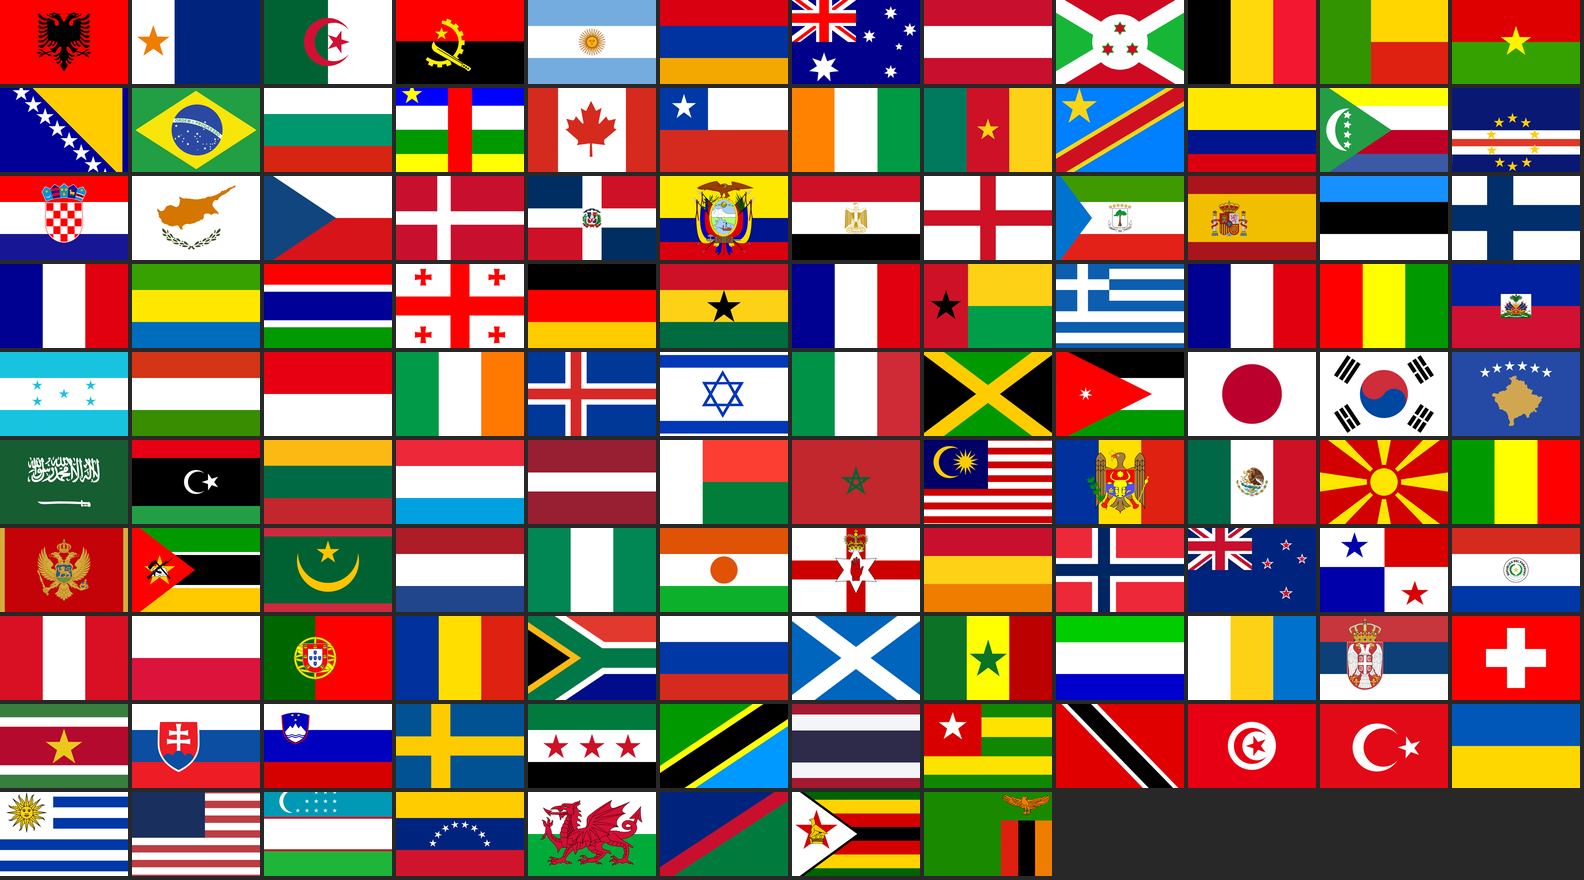
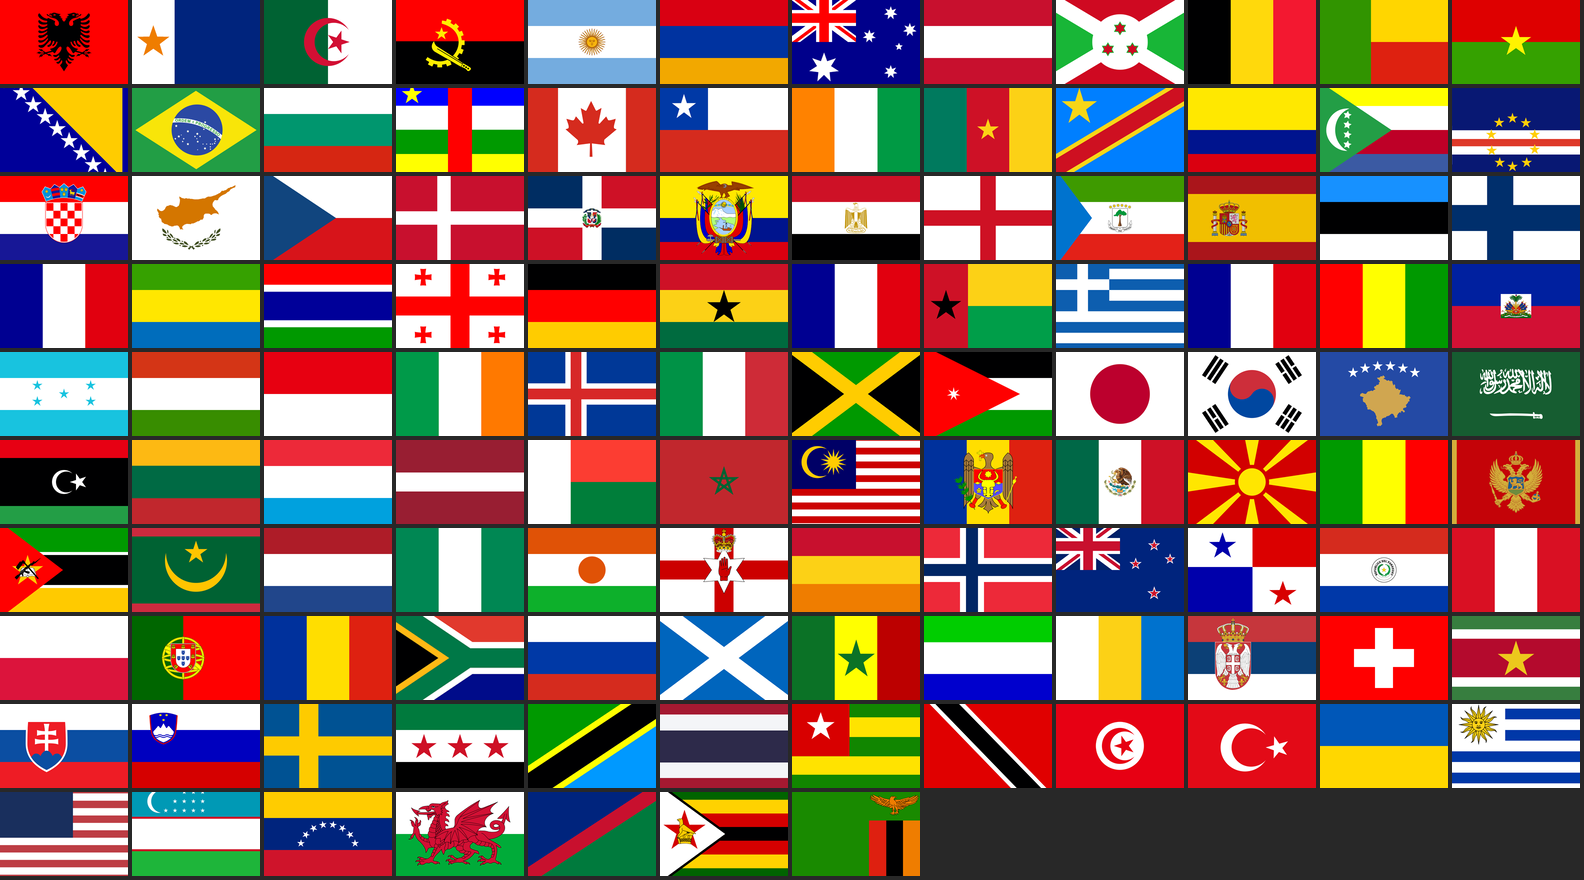
King Football: remove Israel and its players from the game data (owner request)
- countries.json entry, flag files, flag mapping and country translation removed
- the 4 Israeli players of the real pack removed (Villarreal, Levante, Hamburger SV, Lecce)
- importer excludes the nationality so a rebuild reproduces the pack
- counts in tests and docs: 115 countries, 8,009 players (2,863 real)

Claude-Session: https://claude.ai/code/session_01J2WiCJT12GhvJq6oHXpJYE

diff --git a/Foßball godot/king-f-oß-ball/tools/import_real/build_pack.py b/Foßball godot/king-f-oß-ball/tools/import_real/build_pack.py
@@ -269,6 +269,11 @@ def assign_numbers(players):
         p["shirt_number"] = n
 
 
+# Nationalities left out of the game at the owner's request (2026-11-15). Applied after the squad is chosen,
+# so a rebuild reproduces the shipped pack (those squads have 29 players).
+EXCLUDED_NATIONALITIES = {"Israel"}
+
+
 def real_squad(club_rows, league_rank, lo, hi, team_id):
     """Real players of one club. `league_rank` maps player_id -> value percentile (0..1)."""
     rows = sorted(club_rows, key=lambda r: (-int(r["market_value_in_eur"] or 0), r["player_id"]))
@@ -279,6 +284,7 @@ def real_squad(club_rows, league_rank, lo, hi, team_id):
             break
         if g not in keep:
             keep[-1] = g
+    keep = [r for r in keep if r["country_of_citizenship"] not in EXCLUDED_NATIONALITIES]
     out = []
     for r in keep:
         rng = seeded("tm", r["player_id"])

diff --git a/Foßball godot/king-f-oß-ball/docs/DATA_SOURCE_AND_LICENSES.md b/Foßball godot/king-f-oß-ball/docs/DATA_SOURCE_AND_LICENSES.md
@@ -4,12 +4,12 @@
 |---|---|---|---|
 | Leagues, divisions, clubs (names, structure) of England, Spain, Germany, Italy, France, season 2025-26 | openfootball (github.com/openfootball) | CC0 1.0 (public domain) | real |
 | City and founding year of the real clubs (only where the source states them: 186 cities, 80 years) | openfootball/clubs (github.com/openfootball/clubs, `europe/*/*.clubs.txt`) | public domain (stated in the repository README) | real |
-| First-tier squads (names, positions, ages, nationality, market value) | transfermarkt-datasets (github.com/dcaribou/transfermarkt-datasets), snapshot 2026-07-06; data originates from Transfermarkt | published by its author; **development / personal use, legal review needed before any public or commercial release** | real (2,867 players, ids `tm_*`) |
+| First-tier squads (names, positions, ages, nationality, market value) | transfermarkt-datasets (github.com/dcaribou/transfermarkt-datasets), snapshot 2026-07-06; data originates from Transfermarkt | published by its author; **development / personal use, legal review needed before any public or commercial release** | real (2,863 players, ids `tm_*`) |
 | Second-tier players | generated in-game | fictional names | generated (ids `gen_*`) |
 | Player ratings | estimated from market value, age and league strength | **estimates, not official ratings** | derived |
 | Club colours, 3-letter codes | general knowledge (`tools/import_real/club_meta.json`) | no artwork | real, approximate |
 | Countries (`data/countries.json`) | project data | project-owned | real names + 4 fictional regions |
-| **National flags, real countries** (`assets/flags/<id>.png` 128x84, `<id>_64.png` 64x42; 112 countries) | **flag-icons 7.6.0** by Panayiotis Lipiridis (github.com/lipis/flag-icons, npm `flag-icons`), 4x3 SVGs rasterised with Godot and cropped to 3:2 by `tools/build_flags.tscn`; mapping in `tools/flags/flag_map.json` | **MIT** — licence text shipped as `assets/flags/LICENSE-flag-icons.txt` | real (national flags are not subject to copyright in most countries; the SVG drawings are MIT) |
+| **National flags, real countries** (`assets/flags/<id>.png` 128x84, `<id>_64.png` 64x42; 111 countries) | **flag-icons 7.6.0** by Panayiotis Lipiridis (github.com/lipis/flag-icons, npm `flag-icons`), 4x3 SVGs rasterised with Godot and cropped to 3:2 by `tools/build_flags.tscn`; mapping in `tools/flags/flag_map.json` | **MIT** — licence text shipped as `assets/flags/LICENSE-flag-icons.txt` | real (national flags are not subject to copyright in most countries; the SVG drawings are MIT) |
 | National flags, fictional countries (Aldoria, Norvland, Solmara, Zamoria) | generated by `FlagGenerator` (`scripts/systems/flags/flag_generator.gd`), deterministic from the country id | original procedural designs, project-owned | generated |
 | Neutral fallback flag (unknown country) | `FlagGenerator.fallback` (grey + 3x5 pixel-font code) | project-owned | generated |
 | **Club crests** (`data/crests/crests.json`) | generated by `CrestGenerator` | original procedural designs; **not official, not affiliated with any club**; `ORIGINAL_NOT_AFFILIATED` (real clubs) / `FICTIONAL` | generated |

diff --git a/Foßball godot/king-f-oß-ball/docs/FEATURE_STATUS.md b/Foßball godot/king-f-oß-ball/docs/FEATURE_STATUS.md
@@ -11,6 +11,10 @@ card matrix `docs/qa/cards/` (5 categories x outfield / goalkeeper x ar / en), p
 `cut`/`tone`) and the old clip count (9; `PortraitIdle` makes 10). Both fixed to test the intent (stored appearance drives the
 match look; reaction clips fit the goal pause); the suite re-run alone: 72 / 72.
 
+**Data change (owner request, 2026-11-15)**: Israel removed from the game — country record, flag files, flag mapping and
+translation, and the 4 Israeli players of the real pack (Villarreal, Levante, Hamburger SV, Lecce; each squad 30 -> 29,
+Hamburg keeps two goalkeepers). Counts now: 115 countries (111 real + 4 fictional), 8,009 players (2,863 real). Tests updated.
+
 **A — residual bugs** (IMPLEMENTED, tested)
 * Cedar City crest: already restored by `4eb19b7` (file + `.import` match). NEW: `crest_assets_validation` reads every
   club JSON (default world and every data pack, incl. the `team` object) and fails on a `logo` that names a missing file.
@@ -26,12 +30,12 @@ match look; reaction clips fit the goal pause); the suite re-run alone: 72 / 72.
   script once before the next release.
 
 **B — country, flag, club on the card** (IMPLEMENTED, tested: new suite `flags_validation` 24 checks)
-* 116 flags in `assets/flags/<id>.png` (128x84) and `<id>_64.png` (64x42); `flag_asset` filled for every country.
+* 115 flags in `assets/flags/<id>.png` (128x84) and `<id>_64.png` (64x42); `flag_asset` filled for every country.
   Real countries: flag-icons 7.6.0 (MIT, licence shipped next to the files), rasterised by `tools/build_flags.tscn`.
   Fictional countries: `FlagGenerator` (deterministic designs, files rebuildable). Sources in `DATA_SOURCE_AND_LICENSES.md`.
 * `FlagService.texture(country_id, small)` with a cache and a neutral grey fallback flag showing the 3-letter code.
-* 100 % of players have a known `nationality_id` (276 fictional-world, 8,013 real-pack players; no exceptions).
-* 107 country names translated (ar / de / en; were English-only); `Loc.country_key()` handles commas / apostrophes.
+* 100 % of players have a known `nationality_id` (276 fictional-world, 8,009 real-pack players; no exceptions).
+* 106 country names translated (ar / de / en; were English-only); `Loc.country_key()` handles commas / apostrophes.
 * `PlayerCardData` adds country id / translated name / flag, club crest / name, league name, last name, birth year, height,
   weight, preferred foot, secondary positions, potential, traits, contract, wage, market value, fitness, morale, loan,
   captain flag, badges, last match ratings.

diff --git a/Foßball godot/king-f-oß-ball/docs/DATABASE_CHANGELOG.md b/Foßball godot/king-f-oß-ball/docs/DATABASE_CHANGELOG.md
@@ -1,5 +1,8 @@
 # Database changelog
 
+## 2026-11-15 — owner request
+- Israel removed: `countries.json` entry `isr`, `assets/flags/isr*.png`, `tools/flags/flag_map.json`, `ENUM_COUNTRY_ISRAEL`; the 4 players with nationality Israel removed from `real_2025` (tm_396638 Villarreal, tm_921345 Levante, tm_468539 Hamburger SV, tm_780548 Lecce). Totals: 115 countries, 8,009 players (2,863 real).
+
 ## Open items clean-up (after phase 10)
 - `countries.json`: all 112 nationalities of the pack (116 countries with the 4 fictional regions, REAL_PARTIAL); every player of the real world now has a `nationality_id`. Fictional codes changed to NVL / ZMR so country codes stay unique.
 - 1,015 generated players renamed so no generated name duplicates or looks like another (`tools/dedupe_names` + `tools/apply_renames.py`; deterministic, ids unchanged; 13 look-alikes remain between two real players).
